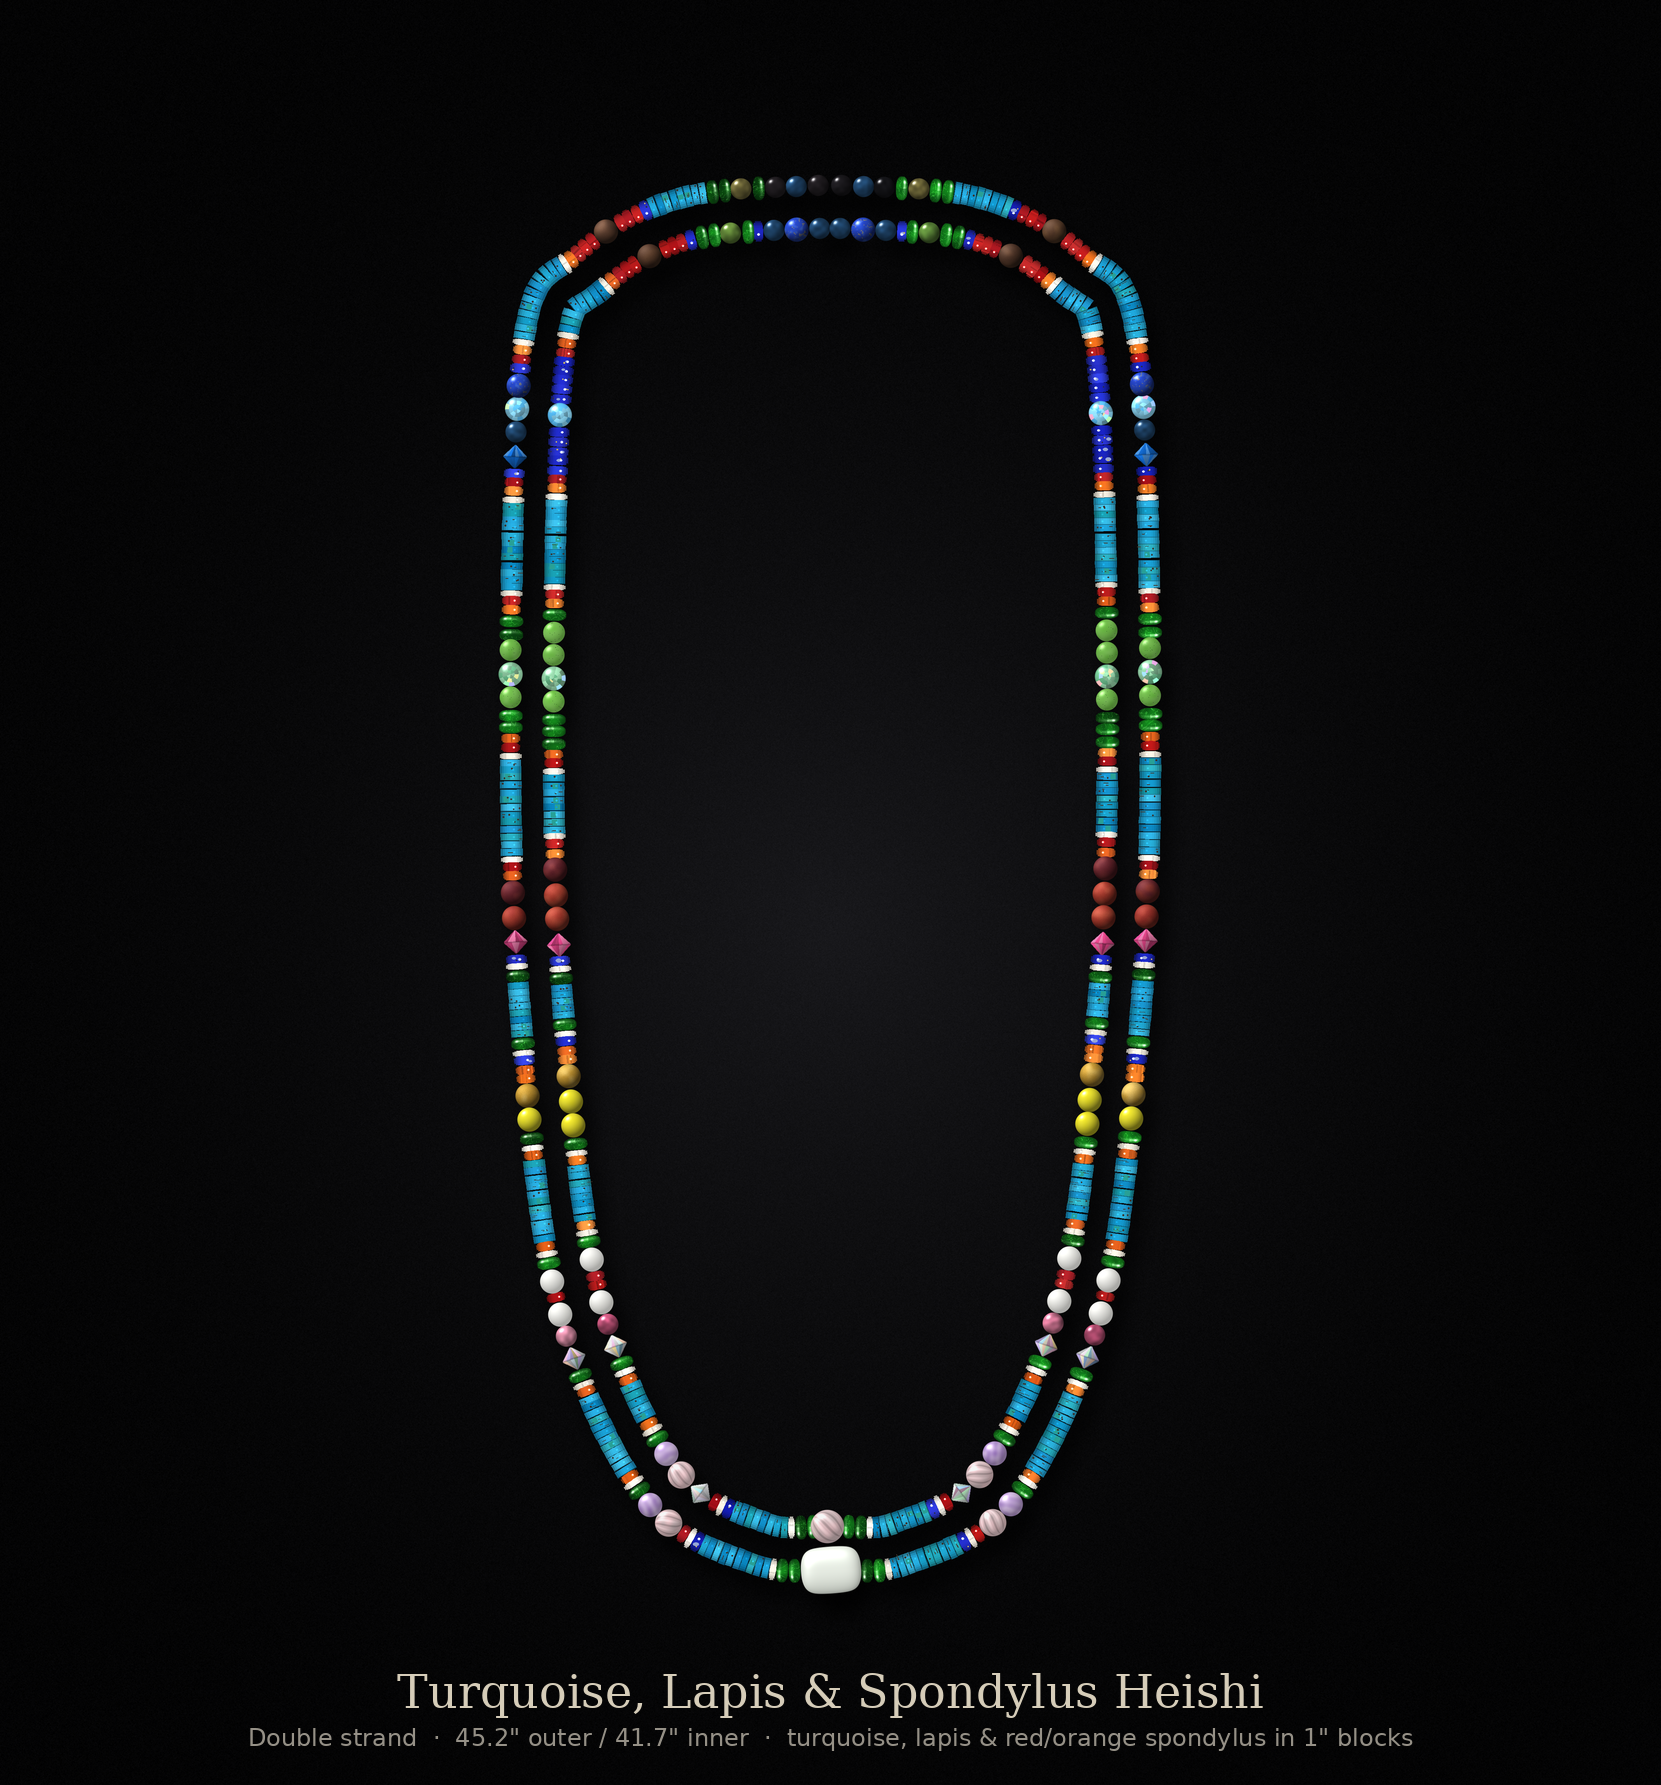
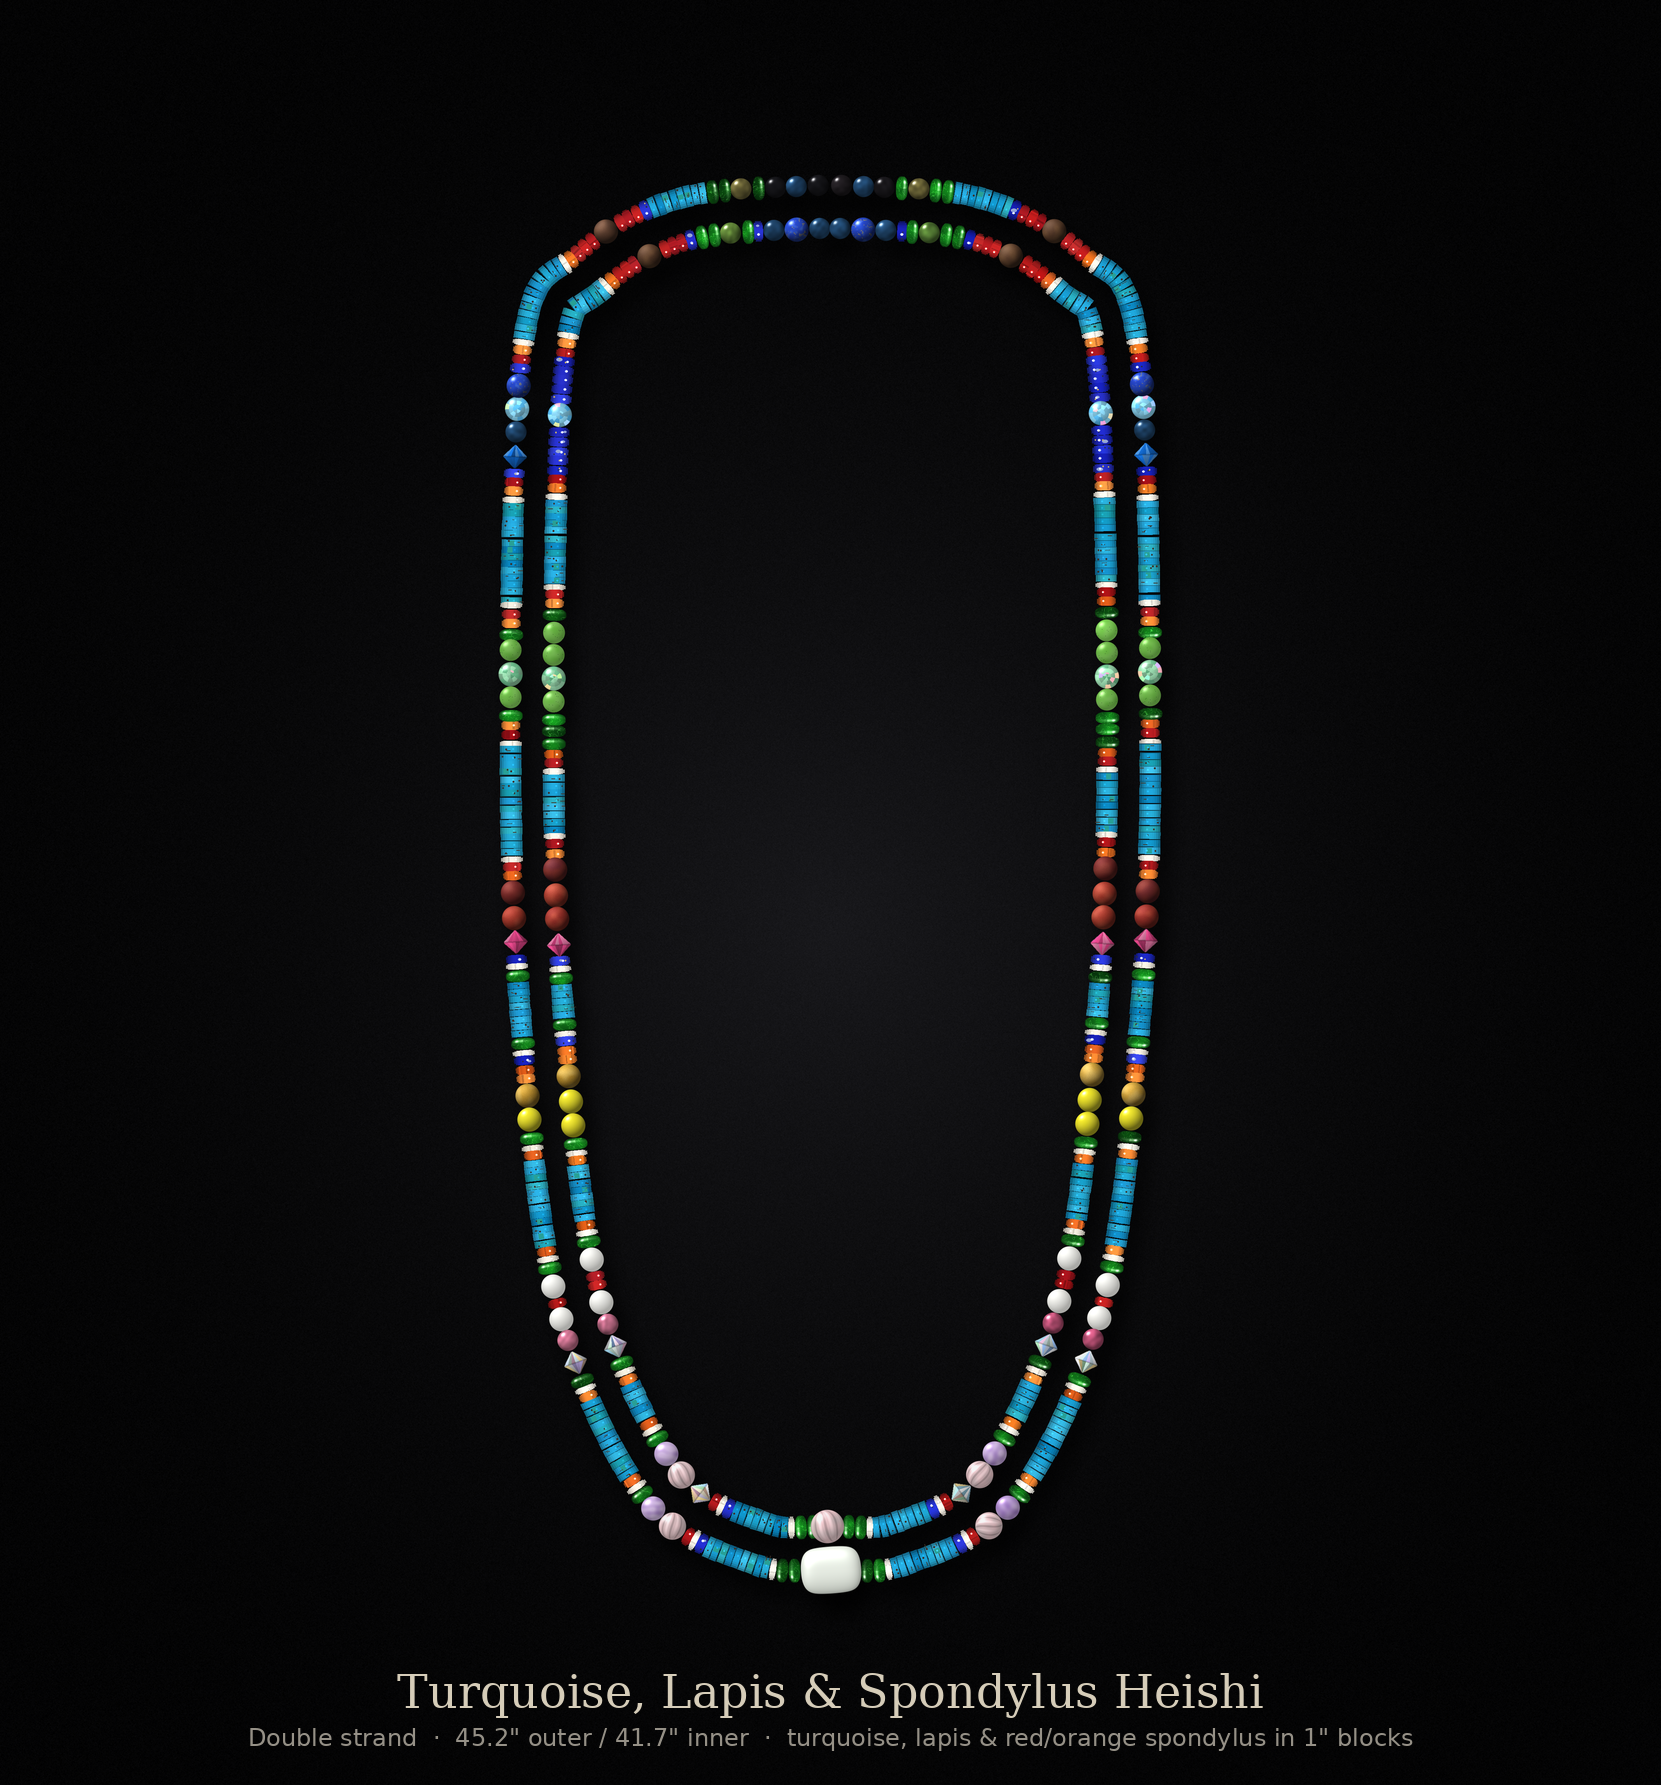
Version 5: outer green one more diopside fewer at each end, turquoise fills in
Claude-Session: https://claude.ai/code/session_014be1vF4Rdf8sv9Si75Gudv

diff --git a/necklace/render_necklace.py b/necklace/render_necklace.py
@@ -1123,6 +1123,7 @@ if V4:
         _gi2 = list(BANDS[5][1]); _k = _gi2.index("gglass"); assert _gi2[_k + 1:_k + 4] == ["jade"] * 3
         _gi2[_k:_k + 4] = ["jade", "jade", "gglass", "jade"]   # inner: green glass moved down between the jades
         _go.remove("diop"); _go.reverse(); _go.remove("diop"); _go.reverse()   # outer green: one diopside fewer at top and bottom
+        _go.remove("diop"); _go.reverse(); _go.remove("diop"); _go.reverse()   # ...and one more at top and bottom
         BANDS[5] = (_go, _gi2)
         def _mook_grad(seq):                        # mookaite rounds: darkest on top, lightest at the bottom by the bicone
             rank = {"mookred": 0, "mookrd": 1, "mookorg": 2}
@@ -1284,6 +1285,7 @@ if V4:
                 if st == 0:
                     widths[4] += 2 * SZ["diop"]     # outer green lost 2 diopside: laid out as before, top moves down
                     widths[4] += 2 * SZ["diop"]     # ...and one more at each end
+                    widths[4] += 2 * SZ["diop"]     # ...and another at each end
                 widths[4] -= 6.0                    # green's orange borders: laid out at the old width, room taken from the neck lapis below
                 first = Hs - sum(widths) - sum(mids) - last
                 if st == 0:                         # outer green's extra length goes downward, not into the top section
@@ -1354,6 +1356,9 @@ if V4:
                     gaps[4] += 2 * SZ["diop"]           # jades lower; more turquoise in the run above the green
                     widths[4] -= 2 * SZ["diop"]
                     gaps[4] += SZ["diop"]               # one diopside fewer at each end: turquoise above and below fills in
+                    gaps[5] += SZ["diop"]
+                    widths[4] -= 2 * SZ["diop"]
+                    gaps[4] += SZ["diop"]               # another fewer at each end: more turquoise above and below
                     gaps[5] += SZ["diop"]
                 if st == 0:
                     widths[5] -= SZ["mookorg"]
